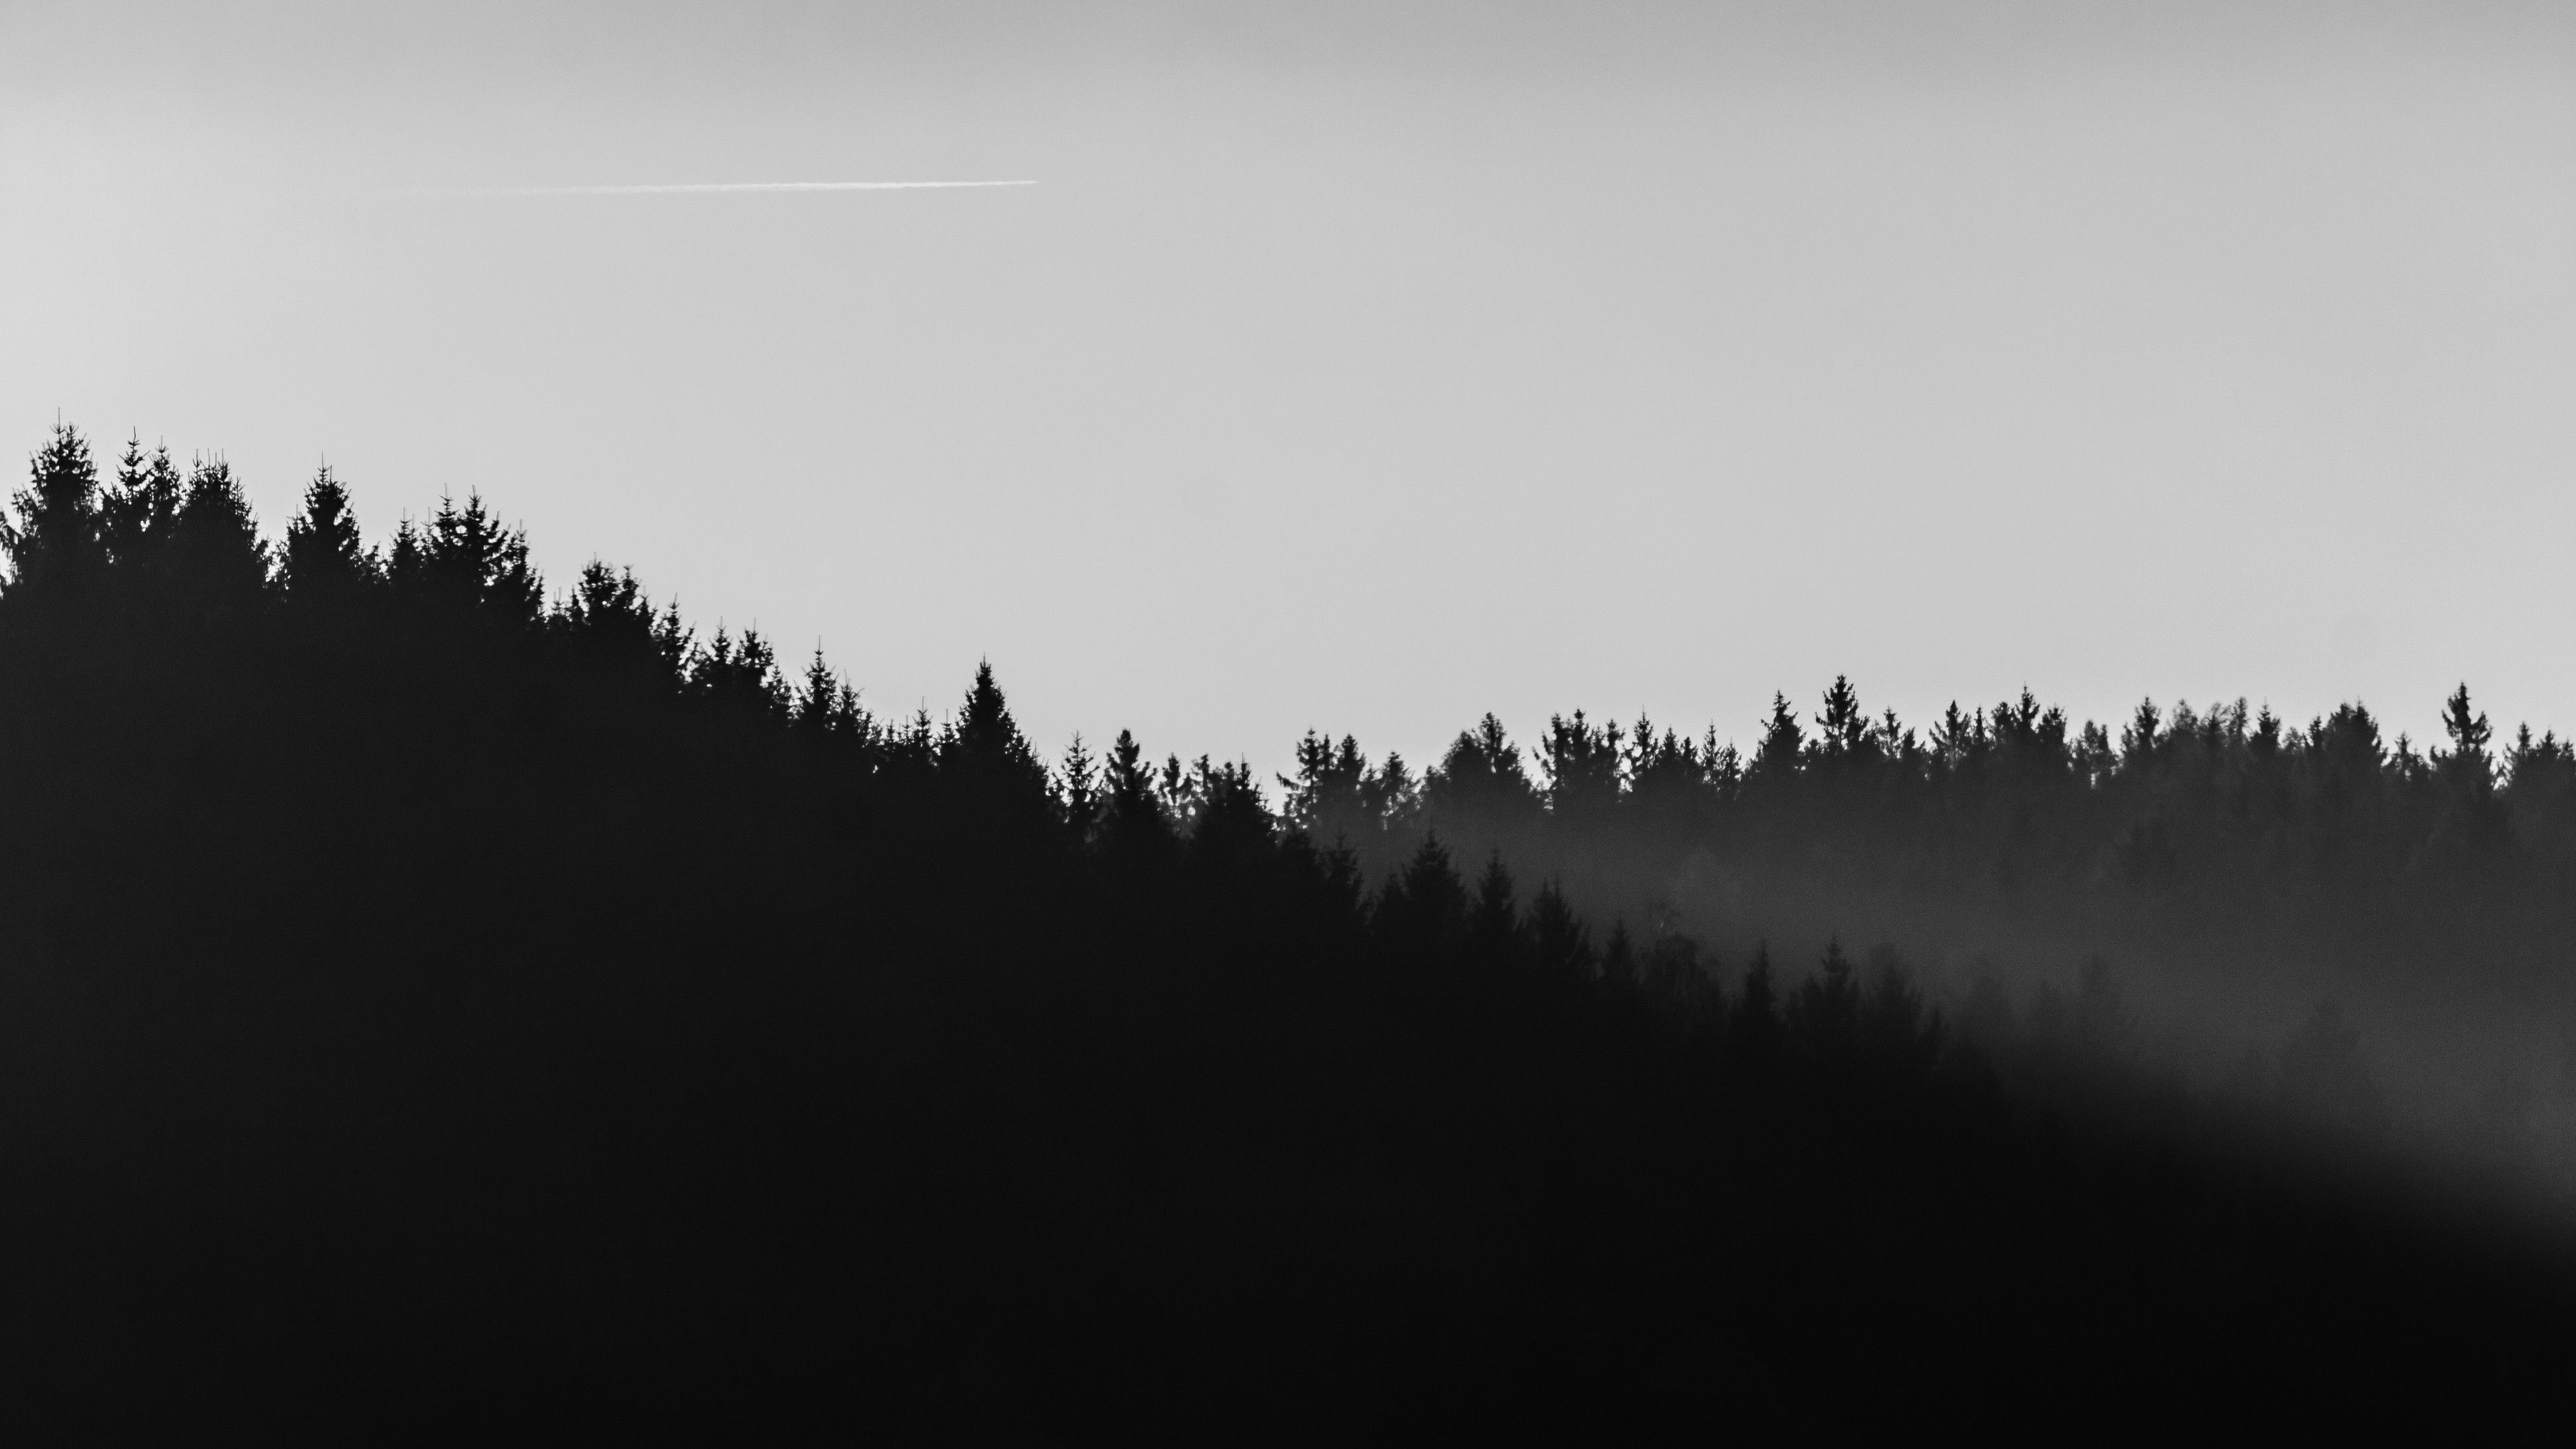
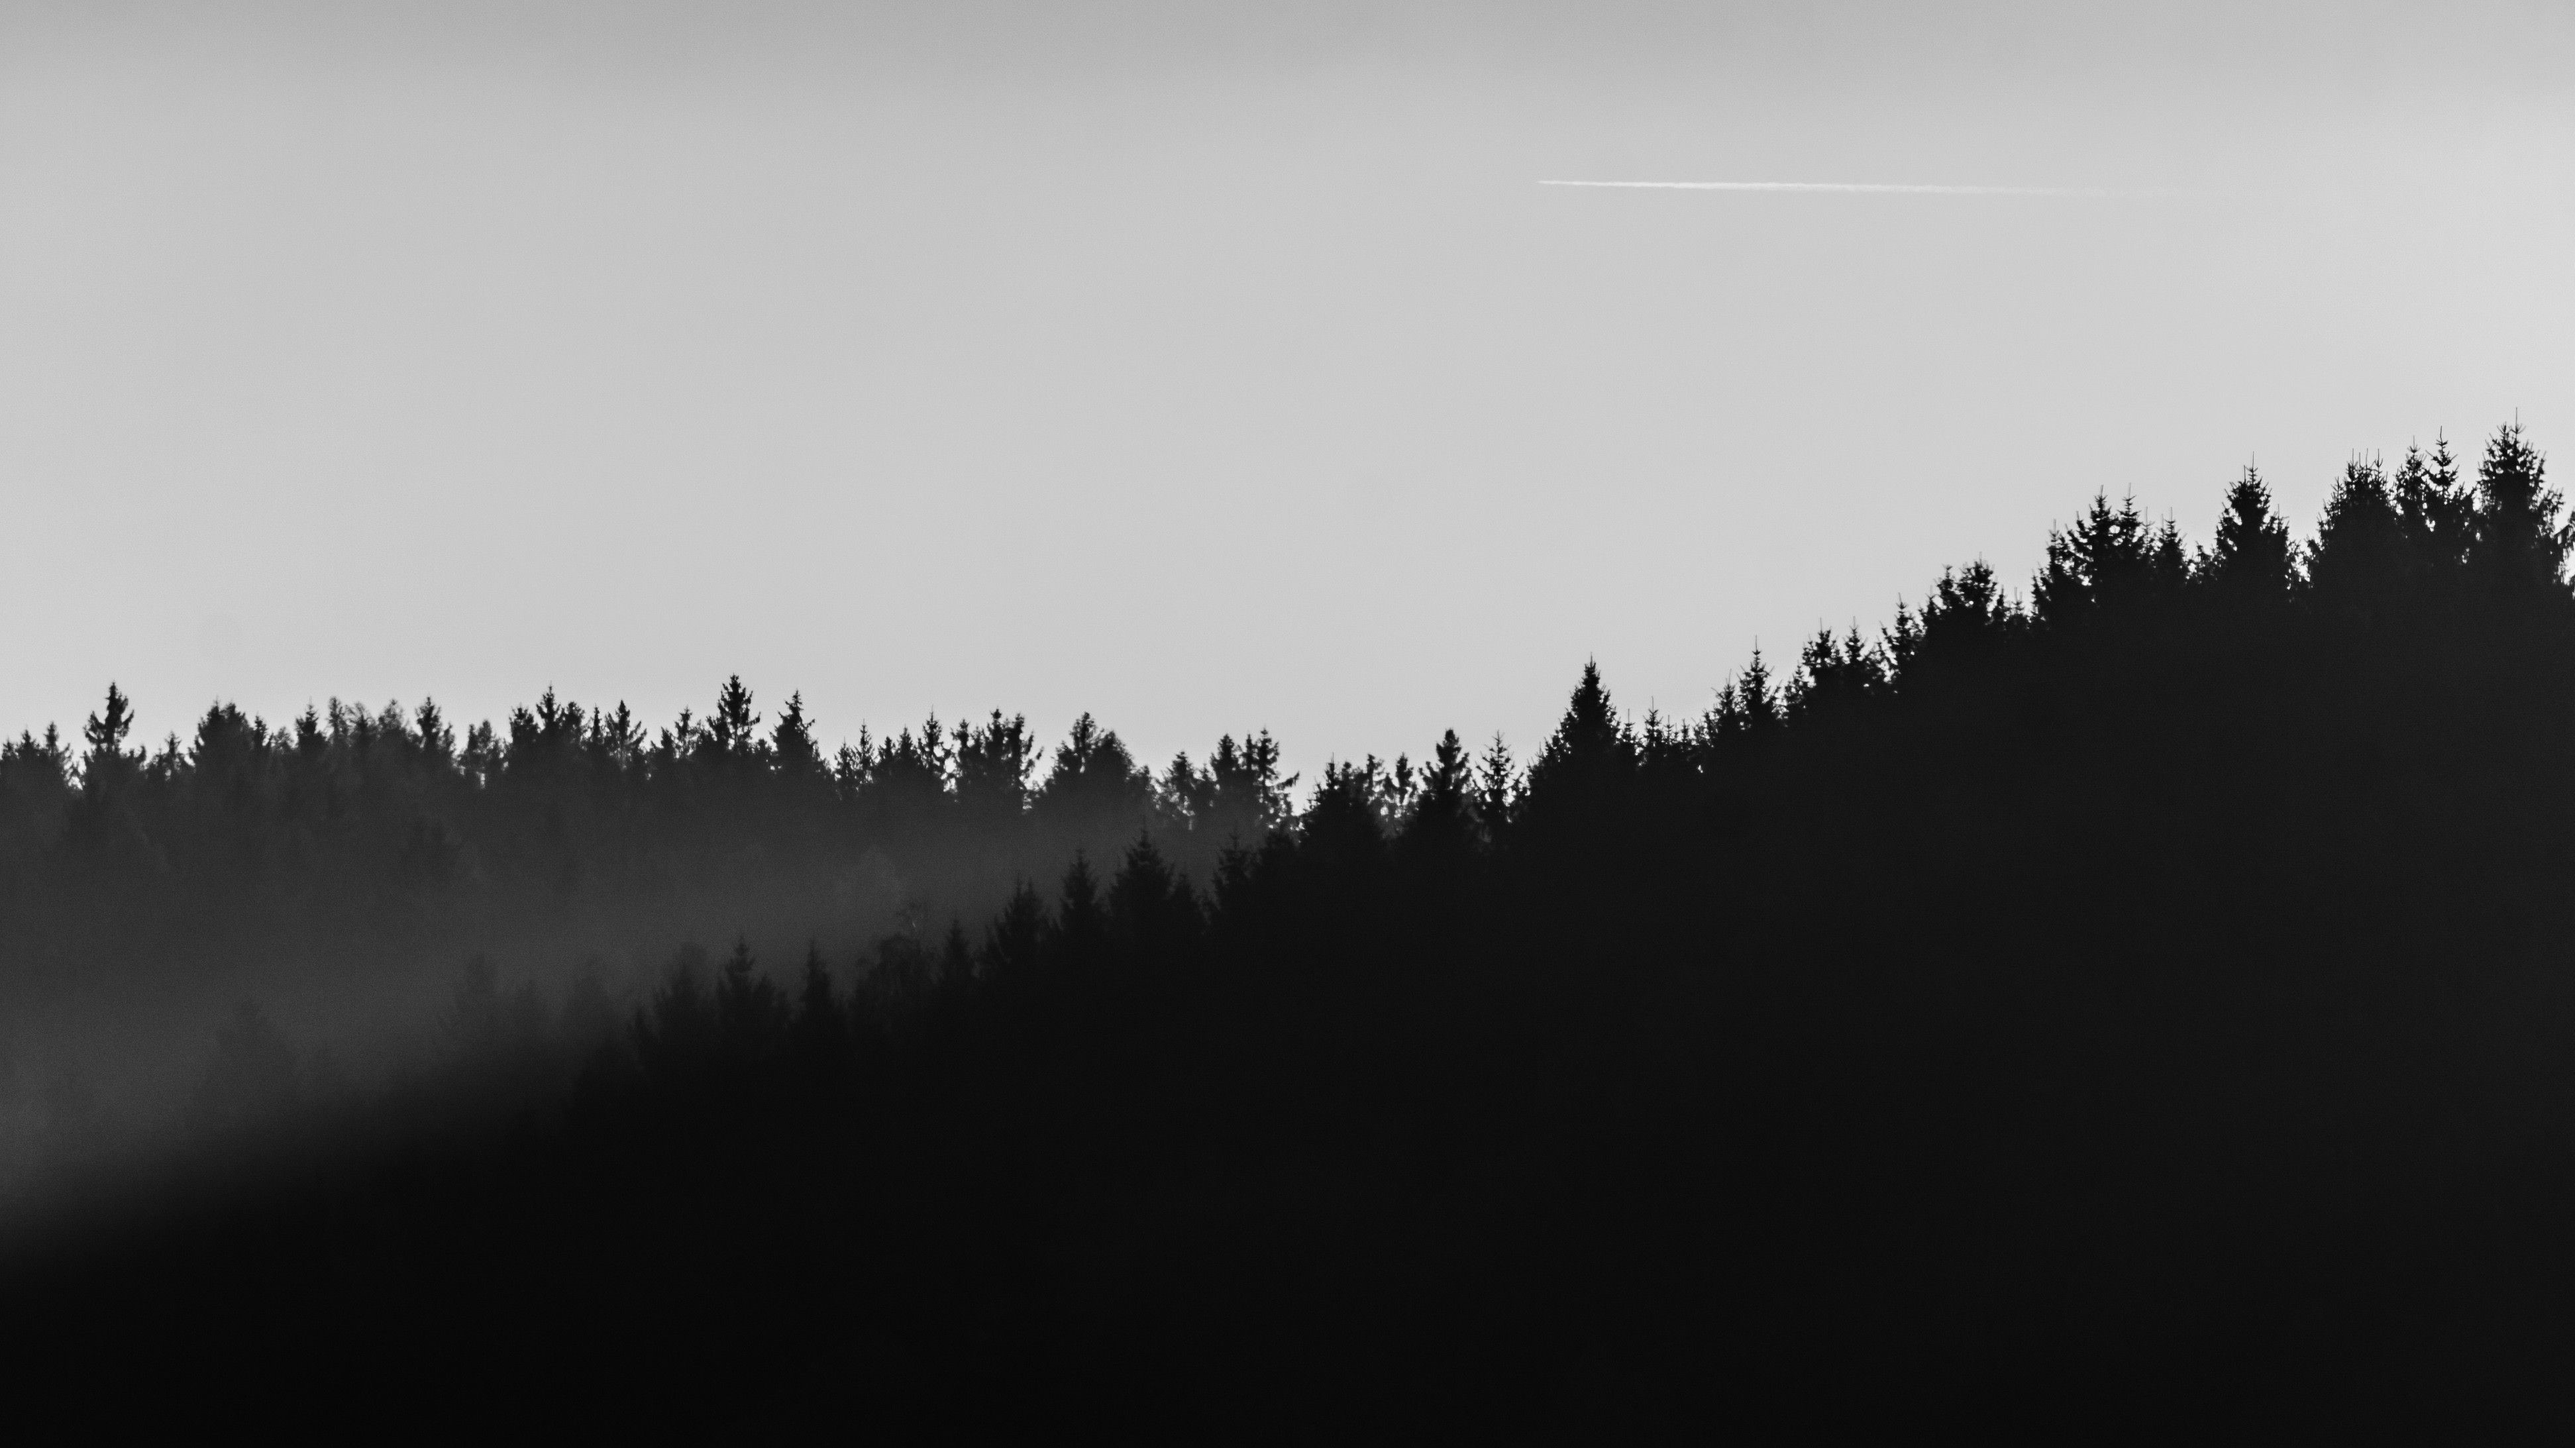
user bg added

Changed region(s): [[0.0, 0.28, 1.0, 0.8399]]

diff --git a/src/components/User.js b/src/components/User.js
@@ -1,6 +1,7 @@
 import React from "react";
 import styled from "styled-components";
 import { auth } from "../firebase";
+import bg from "../images/sign-in-bg-3.jpg";
 
 function User({ user, setUser }) {
   function logOut() {
@@ -51,6 +52,7 @@ function User({ user, setUser }) {
 
   return (
     <UserStyleComponent>
+      <img src={bg} alt="" id="user-bg" />
       <div className="user-details">
         <div className="profilepic">
           <img src={user.profilepic} alt="" srcset="" />
@@ -176,6 +178,16 @@ const UserStyleComponent = styled.div`
   width: 100vw;
   padding-left: 4rem;
   color: black;
+  #user-bg {
+    pointer-events: none;
+    z-index: -1;
+    position: fixed;
+    bottom: 0;
+    left: 0;
+    height: 100vh;
+    width: 100vw;
+    object-fit: cover;
+  }
   .user-details {
     display: flex;
     align-items: center;
